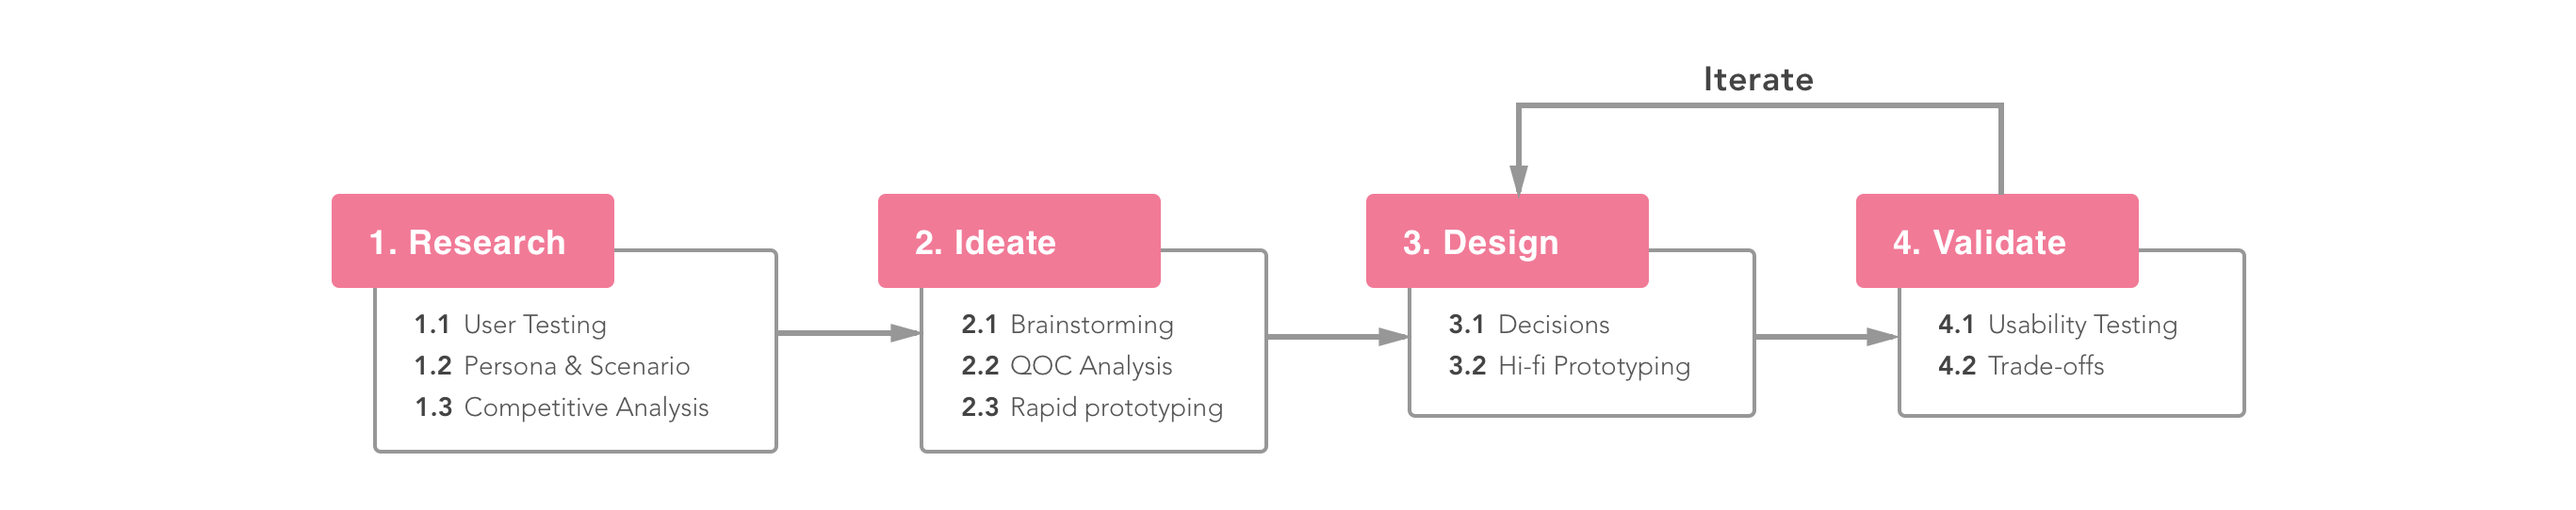
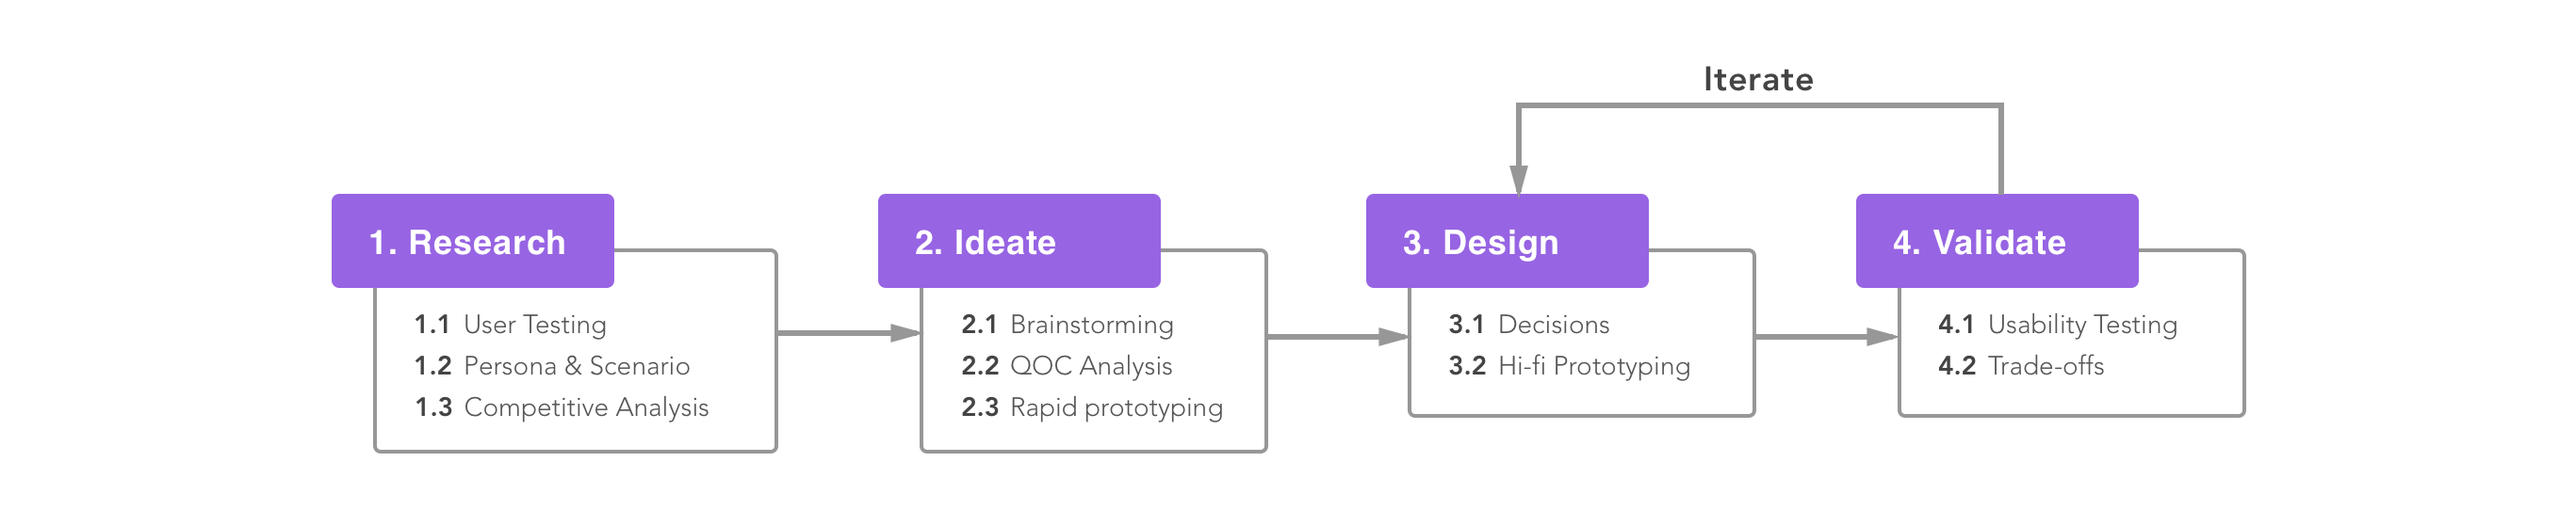
design decisions
design decisions

diff --git a/ubooks.html b/ubooks.html
@@ -283,7 +283,7 @@
 			<div class="col-md-12">
 				<p><h3 class="title-text">Design Goal</h3></p>
 				<p class="description pb-3">
-					<b class="bolder"><font size="4" color="#78f2e3">Connect</font></b> demands with supplies and help them find the <b class="bolder"><font size="4" color="#78f2e3">best match</font></b> in an <b class="bolder"><font size="4" color="#78f2e3">efficient</font></b> way.
+					<b class="bolder"><font size="4" color="#9764E3">Connect</font></b> demands with supplies and help them find the <b class="bolder"><font size="4" color="#9764E3">best match</font></b> in an <b class="bolder"><font size="4" color="#9764E3">efficient</font></b> way.
 				</p>
 				<p><h3 class="title-text">Define</h3></p>
 				<p class="description pb-3">
@@ -361,7 +361,7 @@
 				</p>
 				<div class="text-center">
 					<a  href="img/ubooks/Lo-fi.png" data-lightbox="example-set" data-title="Low fidelity prototype of UbookS"><img src="img/ubooks/Lo-fi.png" alt="#" class="img-responsive img-centered" /></a>
-					<br><br><p class="figures"><b>figure 1.</b>Rapid fidelity prototype of UbookS</p>
+					<br><br><p class="figures"><b>figure 1.</b>Rapid prototyping of UbookS</p>
 				</div>
 			</div>
 		</div>
@@ -395,11 +395,20 @@
 					<div class="section-title title-ex1">
 						<h2 class="title-text">Design</h2>
 					</div>
-					<!-- <p class="description pb-3">
-						To better understand how our design ideas would resonate with our target audience, we planned to conduct <b class="bolder">User Enactment studies</b> guided by Davidoff et al.’s <b class="bolder">Speed Dating Matrix.</b>
-					</p><br><br> -->
+					<p class="description pb-3">
+						Based on the feedback and insights I gained from the testing of the lo-fi prototype, I modified my initial ideas, refined the overall process and sketched out the following <b class="bolder">user flow</b>.
+					</p><br>
 					<div class="text-center">
 						<img src="img/ubooks/user flow.png" alt="#" class="img-responsive img-centered" />
+						<br><br><p class="figures"><b>figure 2.</b>User flow of UbookS</p>
+					</div><br><br>
+					<p><h3>Decisions</h3></p>
+					<p class="description pb-3">
+						To specify the frustrations and needs, I performed <b class="bolder">7 in-depth interviews</b> by asking the following 5 questions: 
+					</p>
+					<div class="text-center">
+						<img src="img/ubooks/decision.png" alt="#" class="img-responsive img-centered" />
+						<br><br><p class="figures"><b>figure 3.</b>Design goal and my focus</p>
 					</div>
 				</div>
 			</div>
